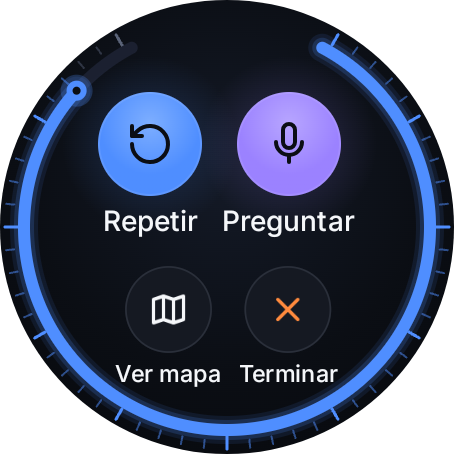
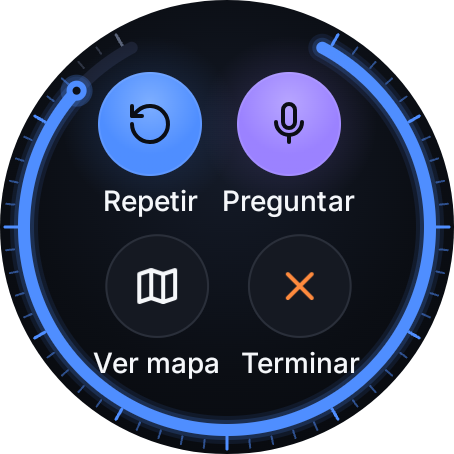
Dejar espacio al final para que los últimos botones quepan enteros en el círculo
Con el dial, al desplazar hasta abajo la última fila de botones quedaba pegada al borde y achicada. performScrollTo nunca la daba por visible y desplazaba sin fin, y por eso se colgaban las dos pruebas de RouteDoubleTapTest que tocan "Terminar". Ahora el último elemento puede subir hasta caber entero, como la insignia baja arriba.

diff --git a/watchapp/app/src/main/java/com/rumbo/watchapp/presentation/screens/RumboScreen.kt b/watchapp/app/src/main/java/com/rumbo/watchapp/presentation/screens/RumboScreen.kt
@@ -172,17 +172,27 @@ private fun RoundColumn(
         val radius = min(screenWidth, screenHeight) / 2 - edgeInset.toPx()
         val centerY = screenHeight / 2
         val paddingTop = contentPadding.calculateTopPadding().toPx()
+        val paddingBottom = contentPadding.calculateBottomPadding().toPx()
         // Lo primero (la insignia de estado) nunca queda cortado: si arriba del todo no cabe en el
         // círculo ni achicado, todo baja lo justo para que entre.
         val first = placeables.firstOrNull()
         val drop = if (round && first != null) {
-            firstItemDrop(first.width / 2f * MIN_EDGE_SCALE, first.height / 2f, radius, centerY - paddingTop).toInt()
+            edgeItemShift(first.width / 2f * MIN_EDGE_SCALE, first.height / 2f, radius, centerY - paddingTop).toInt()
+        } else {
+            0
+        }
+        // Y lo último (los botones) puede subir, al desplazar hasta el final, hasta caber entero:
+        // sin este espacio quedaba siempre achicado contra el borde de abajo (y performScrollTo
+        // nunca lo daba por visible y desplazaba sin fin).
+        val last = placeables.lastOrNull()
+        val tail = if (round && last != null) {
+            edgeItemShift(last.width / 2f, last.height / 2f, radius, screenHeight - paddingBottom - centerY).toInt()
         } else {
             0
         }
         // Con fillMaxSize antes del scroll, minHeight es el alto visible: si sobra, se centra.
         val startY = max((constraints.minHeight - itemsHeight) / 2, drop).coerceAtLeast(0)
-        val height = max(startY + itemsHeight, constraints.minHeight)
+        val height = max(startY + itemsHeight + tail, constraints.minHeight)
         layout(width, height) {
             var y = startY
             placeables.forEach { placeable ->
@@ -213,18 +223,19 @@ private fun RoundColumn(
 }
 
 /**
- * Cuánto bajar un elemento de mitades [halfWidth] × [halfHeight] puesto arriba del todo, con su
- * borde de arriba a [topToCenter] px sobre el centro, para que quepa entero (sin achicarse) en el
- * círculo de radio [radius]. Si es tan ancho que no cabe en ninguna altura, lo lleva al centro.
+ * Cuánto acercar al centro un elemento de mitades [halfWidth] × [halfHeight] pegado a un extremo
+ * (arriba o abajo), con su borde exterior a [edgeToCenter] px del centro, para que quepa entero
+ * (sin achicarse) en el círculo de radio [radius]. Si es tan ancho que no cabe a ninguna altura,
+ * lo lleva al centro.
  */
-private fun firstItemDrop(halfWidth: Float, halfHeight: Float, radius: Float, topToCenter: Float): Float {
+private fun edgeItemShift(halfWidth: Float, halfHeight: Float, radius: Float, edgeToCenter: Float): Float {
     val corner = min(halfWidth, halfHeight)
     val reach = radius - corner
     val side = halfWidth - corner
-    // Lo más arriba que puede estar su centro (medido hacia arriba desde el centro de la pantalla).
-    val highestCenter = if (side > reach) 0f else sqrt(reach * reach - side * side) - halfHeight + corner
-    val centerNow = topToCenter - halfHeight
-    return (centerNow - highestCenter).coerceAtLeast(0f)
+    // Lo más lejos del centro que puede estar su centro.
+    val farthestCenter = if (side > reach) 0f else sqrt(reach * reach - side * side) - halfHeight + corner
+    val centerNow = edgeToCenter - halfHeight
+    return (centerNow - farthestCenter).coerceAtLeast(0f)
 }
 
 /**

diff --git a/docs/REQUIREMENTS.md b/docs/REQUIREMENTS.md
@@ -369,7 +369,7 @@ vibration_events (log para demo/sustentación)
 
 Diseñadas en Claude Design (lienzo "Rumbo — UI del reloj"; desde la v0.47, rediseño premium del lienzo "Rumbo — rediseño premium": dial con bisel y anillo, disco de vidrio, insignias rellenas y fondo radial). La app se prueba en el emulador **Wear OS Large Round** (454 × 454 px, 320 dpi = 227 dp); capturas de cada pantalla en `docs/capturas/` (se regeneran con `tools/capture_screens.sh`).
 
-**Pantalla redonda.** Todas usan `RumboScreen`: `ScreenScaffold` de Wear (la hora se esconde al desplazar y aparece el indicador de desplazamiento) sobre el fondo radial (`RumboBackground`: `#141A27` → `#0B0E14` → `#06080C`, con la luz un poco arriba del centro; en Desviado la luz es `#24160F` y en Llegada `#0F2219`, siempre además del texto). Sin dial, márgenes en proporción a la pantalla, 10 % a los lados y 14 % arriba y abajo (en la cuadrada, 5,2 % y 12 %). Con dial (las 9 pantallas del rediseño), el contenido va dentro del círculo de radio `dialContentRadius`: 24 (de 227) por dentro del borde interior del anillo, es decir 24 px en la pantalla de 454 px (12 dp), medido igual que los radios 203 y 214–222 del diseño. Si el contenido cabe, se centra; si no, se desplaza con el dedo o la corona. Lo que pasa por el borde de arriba o de abajo se achica (hasta 60 %) lo justo para entrar en el círculo, sin atenuarse (el texto conserva su contraste), y lo que tiene el centro fuera del círculo no se dibuja hasta que se desplaza hacia adentro: nada asoma cortado por el borde. Lo primero (la insignia de estado) baja lo justo para no quedar oculto. En ruta, al cambiar de estado la pantalla vuelve arriba (`resetScrollKey`): lo nuevo se ve entero, debajo de la hora, y no queda corrido por lo que se había desplazado antes (el contenido corrido bajo la hora visto en la v0.30). El mapa va encima del fondo (`background`); con dial o con mapa no se muestra el indicador de desplazamiento. Sin animaciones continuas: solo se mueven las barras de voz (escuchando y mientras la app habla); el anillo solo se anima al pasar de un valor al siguiente.
+**Pantalla redonda.** Todas usan `RumboScreen`: `ScreenScaffold` de Wear (la hora se esconde al desplazar y aparece el indicador de desplazamiento) sobre el fondo radial (`RumboBackground`: `#141A27` → `#0B0E14` → `#06080C`, con la luz un poco arriba del centro; en Desviado la luz es `#24160F` y en Llegada `#0F2219`, siempre además del texto). Sin dial, márgenes en proporción a la pantalla, 10 % a los lados y 14 % arriba y abajo (en la cuadrada, 5,2 % y 12 %). Con dial (las 9 pantallas del rediseño), el contenido va dentro del círculo de radio `dialContentRadius`: 24 (de 227) por dentro del borde interior del anillo, es decir 24 px en la pantalla de 454 px (12 dp), medido igual que los radios 203 y 214–222 del diseño. Si el contenido cabe, se centra; si no, se desplaza con el dedo o la corona. Lo que pasa por el borde de arriba o de abajo se achica (hasta 60 %) lo justo para entrar en el círculo, sin atenuarse (el texto conserva su contraste), y lo que tiene el centro fuera del círculo no se dibuja hasta que se desplaza hacia adentro: nada asoma cortado por el borde. Lo primero (la insignia de estado) baja lo justo para no quedar oculto, y al final queda espacio para que lo último (los botones) suba, al desplazar hasta abajo, hasta caber entero; un botón a lo ancho llega al centro, como en las listas de Wear. En ruta, al cambiar de estado la pantalla vuelve arriba (`resetScrollKey`): lo nuevo se ve entero, debajo de la hora, y no queda corrido por lo que se había desplazado antes (el contenido corrido bajo la hora visto en la v0.30). El mapa va encima del fondo (`background`); con dial o con mapa no se muestra el indicador de desplazamiento. Sin animaciones continuas: solo se mueven las barras de voz (escuchando y mientras la app habla); el anillo solo se anima al pasar de un valor al siguiente.
 
 **Gesto de volver.** El "atrás" del sistema (incluido el de TalkBack) y, hasta Android 15, deslizar de izquierda a derecha (`BasicSwipeToDismissBox`; desde Android 16 el sistema convierte ese gesto en "atrás"). Desde Inicio no se intercepta y sale de la app; desde Confirmar, Escuchando, Procesando (cancela la grabación o la carga), Error, Asistente, Lugares guardados y Vibraciones vuelve a Inicio, o a la ruta si hay una en curso (durante la secuencia de demostración primero la detiene); desde "¿Borrar?" vuelve a la lista; desde Mapa vuelve a En ruta sin preguntar; en ruta pregunta "¿Terminar la ruta?" (Seguir navegando / Terminar), salvo que ya se haya llegado, y volver otra vez equivale a "Seguir navegando".
 
@@ -446,6 +446,7 @@ Diseñadas en Claude Design (lienzo "Rumbo — UI del reloj"; desde la v0.47, re
 
 ## 13. Changelog
 
+- **v0.48** (2026-11-20): Arreglada una prueba instrumentada que se colgaba con el rediseño (`RouteDoubleTapTest`, las dos que tocan "Terminar"). Con el dial, el círculo del contenido es más chico y, desplazando hasta el final, la última fila de botones seguía pegada al borde de abajo y achicada. `performScrollTo` (Compose 1.8) desplaza mientras el nodo no quede dentro de la vista: como ya no se podía bajar más, repetía sin fin. Le pasaba también a la persona, que veía esos botones siempre achicados. Ahora `RumboScreen` deja espacio al final para que lo último suba hasta caber entero, igual que la insignia baja arriba. 25 instrumentadas en verde (24 más las capturas); capturas desplazadas regeneradas.
 - **v0.47** (2026-11-20): Rediseño premium del reloj, solo presentación (motor de navegación, umbrales, vibraciones, guía hablada, backend y ViewModels sin cambios), según el lienzo "Rumbo — rediseño premium". Componentes compartidos con Canvas de Compose: `BezelTicks` (60 marcas, radio 214–222, cada quinta más larga, encendidas según el avance), `ProgressRing` (arco de 6 dp en el radio 203 con resplandor y punto en la punta; un estilo por estado), `GlassDisc`, `StatusPill` (28 dp, Inter 700 a 12 sp, 0,14 em), `VibrationPill` y `SpeakingPill`, `RoundAction` y el fondo radial `RumboBackground` con la luz teñida en Desviado y Llegada. Aplicado a las 9 pantallas del diseño con los datos reales de `TrackingState`, `Route` y el asistente: Inicio, Escuchando, Confirmar, En ruta, Giro próximo (también Gira ahora y Atención), Desviado, Sin señal, Llegada y Asistente. Datos nuevos solo de presentación: los minutos que faltan al ritmo de la ruta (`remainingWalkingMinutes`) y "Ruta de X" al llegar. `RumboScreen`: el contenido va a 24 (de 227) por dentro del anillo (12 dp en el reloj de 227 dp); ya no se atenúa al pasar por el borde (se achica y, si tiene el centro fuera del círculo, espera oculto: nada asoma cortado y el texto mantiene 4,5:1); la insignia de arriba baja lo justo para no quedar oculta; y, en ruta, cada cambio de estado vuelve arriba para que el contenido no quede corrido bajo la hora. Sin animaciones continuas salvo las barras de voz: la vibración en ruta pasa a una píldora quieta. Interpretación: los 24 "dp" del pedido se midieron en las mismas unidades del diseño de 454 px que los radios 203 y 214–222; en dp reales del reloj (radio de contenido 74,5 dp) la insignia de 12 sp con 0,14 em ("Giro próximo", ~160 dp) no cabe a ninguna altura. Los táctiles sí van en dp reales (≥ 48). Arriba del todo, la insignia se ve achicada por el borde redondo (~70 %). Tests: `DialGeometryTest` (posición de marcas, marcas encendidas según el avance, ángulo del punto y radio del contenido), `VibrationPillTest`, `AnswerSentencesTest` y `ColorContrastTest` ampliado: 22 JUnit nuevos (496). Capturas regeneradas en el emulador.
 
 - **v0.46** (2026-10-30): Mapa de la ruta en el reloj (RF14). Pantalla "Mapa" desde "Ver mapa" en En ruta, dibujada con Canvas, sin librerías, teselas ni internet: vista de cerca con la persona al centro y su rumbo arriba, y vista de toda la ruta con el norte arriba. Estados con etiqueta y color: desviado, sin señal y llegada. `TrackingState` publica también la ruta en uso, la posición suavizada, el último rumbo y el avance; `NavigationEngine`, umbrales, vibraciones y guía hablada no cambian. Nuevo `domain/map` con funciones puras y `mapUpdates`, que limita el redibujo a uno por segundo y solo con cambios visibles. `onCleared` ahora mira si hay ruta en curso: antes apagaba el GPS si la actividad se destruía fuera de En ruta, y ese caso habría incluido el mapa. Las capturas corrigieron el primer diseño: la etiqueta arriba escondía el próximo giro, el punto de la persona se fundía con ella y la ruta entera quedaba muy pequeña; ahora la etiqueta va abajo con los botones y la ruta usa toda la franja libre. Probado en el emulador con la app real contra Render, con una ruta de 1,4 km: "Ver mapa", el dibujo siguiendo al GPS simulado, las dos vistas y "Atrás", sin que se termine la navegación. Ese GPX se alejaba de la ruta, así que el tramo azul solo se vio en las capturas y las pruebas; las pruebas manuales M1 a M8 están por hacer. 63 JUnit nuevos (474) y 8 instrumentados nuevos (`RouteMapScreenTest`, 24 en total más las capturas); capturas `33` a `37`.

diff --git a/CLAUDE.md b/CLAUDE.md
@@ -36,7 +36,7 @@ Proyecto: **Rumbo**, app Wear OS de navegación por vibraciones para personas ci
 - Logcat: `adb logcat -s Nav Vibracion Red` (estados de navegación, patrones de vibración y peticiones al backend).
 - Demo con GPX (`docs/demo`): poner la posición antes de pedir la ruta (`adb emu geo fix -77.278419 1.214997`, primero la longitud; para repetirla, reabrir la app antes); la app ya no inventa el origen. "Sin señal" en el emulador: apagar la ubicación 15 s (`adb shell cmd location set-location-enabled false` y luego `true`); el hueco del GPX no basta.
 
-## Estado (2026-11-20, REQUIREMENTS v0.47)
+## Estado (2026-11-20, REQUIREMENTS v0.48)
 Fases 1–3 completas; fase 4 (asistente y cierre) en curso.
 - Hecho: voz → destino → confirmar (con lugares guardados), ruta a pie, navegación con GPS y vibraciones (giro próximo y maniobra en dos etapas, desvío con recálculo, sin señal, llegada) que se distinguen solo por ritmo en relojes sin control de intensidad, pantalla "Vibraciones" para probarlas (secuencia de demostración y ajustes de intensidad y duración), voz hablada (con barras animadas mientras habla), guía por etapas para personas ciegas (lejos, preparación y ahora, con calle, giros suaves y cerrados, media vuelta, rotonda con salida, "Luego," y aviso del destino con su lado; audio de la siguiente etapa precargado), pasos que Geoapify no clasifica ("Tome las escaleras.": nunca se omiten, se dicen con su texto y "Atención:" si hay peligro, con vibración propia), repetir con doble toque en cualquier parte de En ruta, mapa de la ruta dibujado con Canvas y sin internet (RF14: "Ver mapa", de cerca con el rumbo arriba o la ruta entera, y etiqueta en cada estado; solo lee `TrackingState`), pantalla Escuchando con barras que siguen la voz real y corte automático al terminar de hablar (la voz de la app espera mientras graba), asistente conversacional (RF9: `POST /voice/ask` con el contexto de la ruta; pantalla Asistente y botón "Preguntar" en ruta), órdenes de voz (RF13: `ExecuteVoiceCommand`, micrófono en Inicio, Confirmar y en ruta; guardar destino, repetir, cancelar, cuánto falta y si está guardado, con vibración "Hecho" o "Error" y la voz diciendo el resultado; "Guardado ✓" en la ruta y aviso al iniciar), UI redonda con TalkBack y rediseño premium (dial con bisel y anillo, disco de vidrio, insignias y fondo radial en Inicio, Escuchando, Confirmar, los cinco estados de En ruta y Asistente; en ruta la pantalla vuelve arriba al cambiar de estado), servicio en primer plano (sigue con la pantalla apagada), permisos pedidos al necesitarlos con pantalla de explicación, errores de red/GPS en español con un reintento, "Continuar ruta anterior" si el proceso muere, base de datos con historial, rutas verificadas en mapa (`tools/preview_route.py`) con pasos limpios y simulación realista del GPS (`tools/route_to_gpx.py`).
 - Pruebas: 217 pytest, 496 JUnit (incluye la geometría del dial, la máquina de estados con la ruta real y los tres GPX realistas de `docs/demo`, y 30 recorridos con ruido) y 24 instrumentadas (doble toque, paso desconocido, órdenes de voz y mapa); pruebas manuales en `docs/PRUEBAS.md`.
